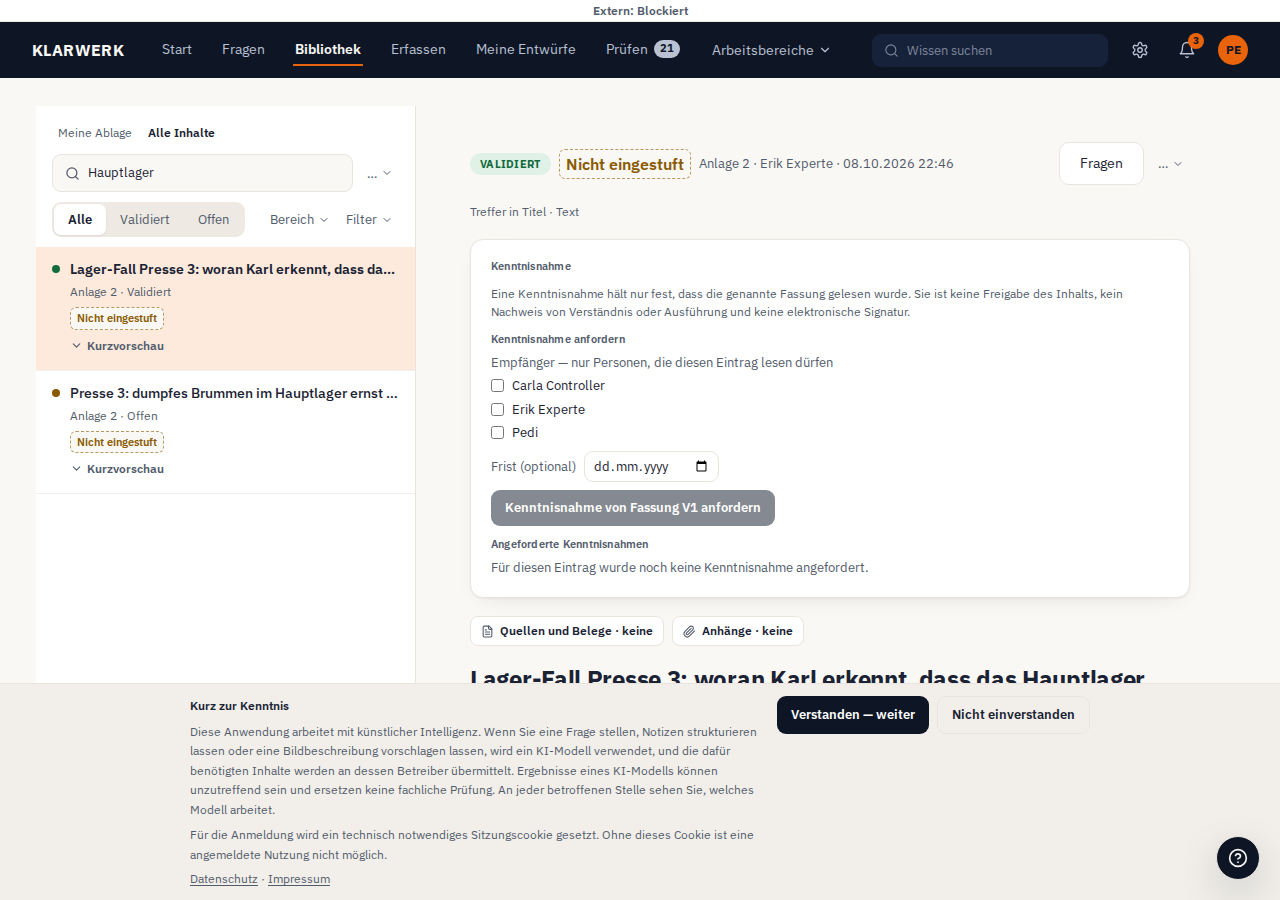
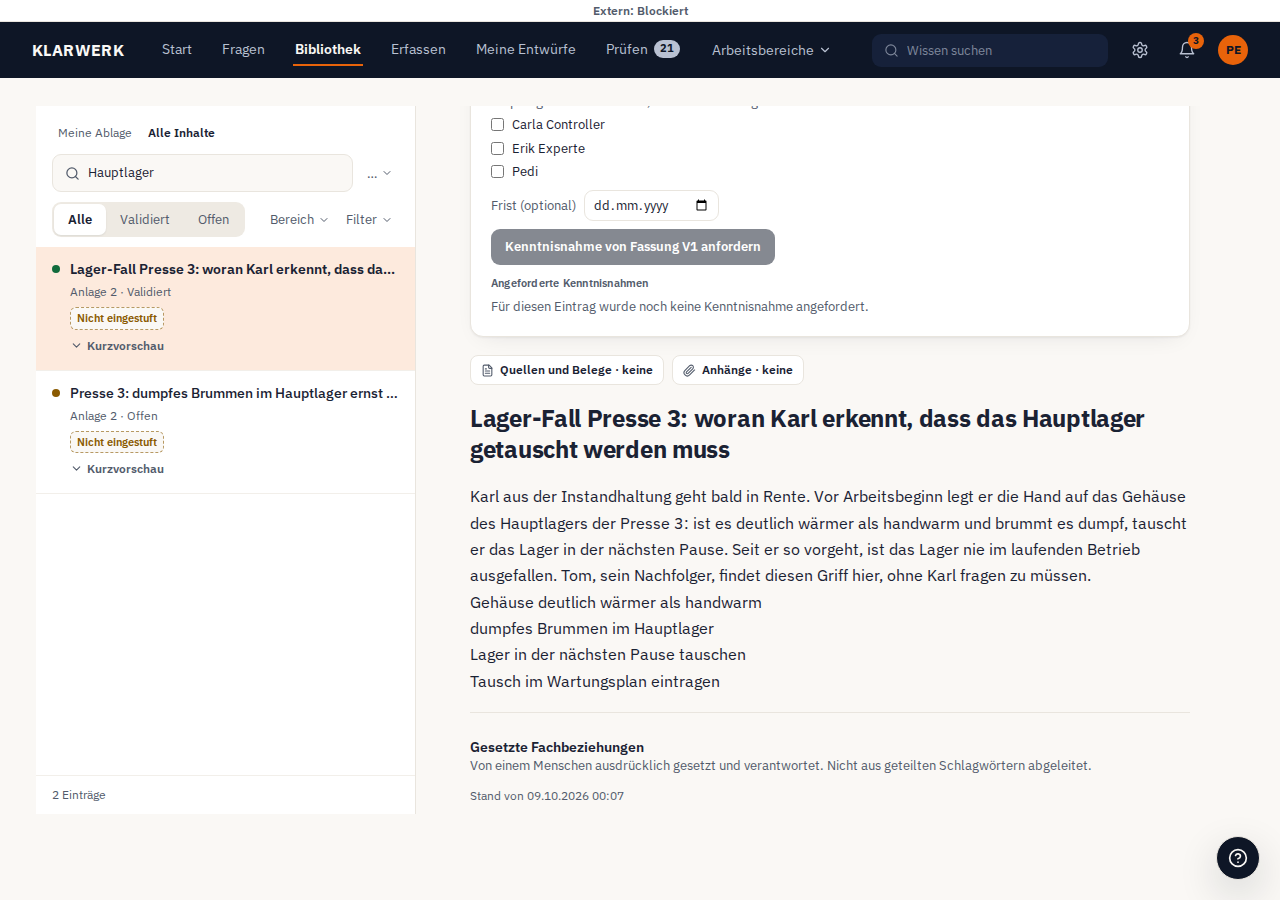
Geführten Erklär- und Vorführmodus anbieten (1.0.0-beta.1.786)
auftrag-703b41de15245d33aab2:kandidat:0f9590dee87762d829fd7c0aaac6bd933aef50b7:g14

Changed region(s): [[0.125, 0.1244, 0.9375, 0.9956], [0.0312, 0.8711, 0.0938, 0.9022], [0.8438, 0.1556, 0.875, 0.1867]]

diff --git a/tests/vorfuehrweg/ansichten-auslieferung.test.ts b/tests/vorfuehrweg/ansichten-auslieferung.test.ts
@@ -23,7 +23,7 @@ const SEITE = join(OEFFENTLICH, "demonstration", "vorfuehrweg.html");
 const ORDNER = join(OEFFENTLICH, "demonstration", "vorfuehrweg-ansichten");
 const PRAEFIX = "/demonstration/vorfuehrweg-ansichten/";
 
-/** Die gesicherten Aufnahmen (Kandidat 775fd23c, Gruppe `vorfuehrweg-ansichten`). */
+/** Die gesicherten Aufnahmen (Gruppe `vorfuehrweg-ansichten`; Herkunft je Datei im Beleg). */
 const AUFNAHMEN: Record<string, { bytes: number; sha256: string }> = {
   "bibliothek-en.png": {
     bytes: 110789,
@@ -73,21 +73,23 @@ const AUFNAHMEN: Record<string, { bytes: number; sha256: string }> = {
     bytes: 98397,
[1 lines of base64/hex data omitted]
   },
+  // Neu aufgenommen an Kandidat 0f9590de (Nutzungshinweis bestätigt, Karls Erfahrung bzw. der
+  // geöffnete Fassungsverlauf V1/V2/V3 vollständig im Bild); die übrigen 16 stammen aus 775fd23c.
   "lagerfall-en.png": {
-    bytes: 113326,
[1 lines of base64/hex data omitted]
+    bytes: 107606,
[1 lines of base64/hex data omitted]
   },
   "lagerfall.png": {
-    bytes: 110236,
[1 lines of base64/hex data omitted]
+    bytes: 103786,
[1 lines of base64/hex data omitted]
   },
   "schweissnaht-en.png": {
-    bytes: 111699,
[1 lines of base64/hex data omitted]
+    bytes: 94812,
[1 lines of base64/hex data omitted]
   },
   "schweissnaht.png": {
-    bytes: 116168,
[1 lines of base64/hex data omitted]
+    bytes: 99946,
[1 lines of base64/hex data omitted]
   },
   "start-en.png": {
     bytes: 81623,

diff --git a/docs/belege/vorfuehrweg-ansichten.md b/docs/belege/vorfuehrweg-ansichten.md
@@ -6,19 +6,26 @@ Die 20 Bilder unter `apps/web/public/demonstration/vorfuehrweg-ansichten/` sind 
 die der Vorführweg (`apps/web/public/demonstration/vorfuehrweg.html`) je Station verlinkt: Deutsch
 `<station>.png`, Englisch `<station>-en.png`.
 
-**Herkunft:** aufgenommen von `tests/vorfuehrweg/ansichten-chromium.test.ts` an der gebauten Fassung
-von Kandidat `775fd23c497eef62d535da1ee82565944860c1a9` (Prüfauftrag
-`auftrag-703b41de15245d33aab2-775fd23c497e`), in echtem Chromium, mit über `POST /api/admin/demo-seed`
-geladenen Demodaten in der jeweiligen Sprache. Jede Aufnahme entstand erst, nachdem das Demo-Ergebnis
-der Station sichtbar war. Gesichert als Prüfartefakte (Gruppe `vorfuehrweg-ansichten`,
-`BILDBELEGE.json`) und unverändert unter ihrem Ursprungsnamen übernommen.
+**Herkunft:** aufgenommen von `tests/vorfuehrweg/ansichten-chromium.test.ts` an der gebauten Fassung,
+in echtem Chromium, mit über `POST /api/admin/demo-seed` geladenen Demodaten in der jeweiligen Sprache.
+Gesichert als Prüfartefakte (Gruppe `vorfuehrweg-ansichten`, `BILDBELEGE.json`) und unverändert unter
+ihrem Ursprungsnamen übernommen. Zwei Aufnahmeläufe:
+
+- **16 Bilder** aus Kandidat `775fd23c497eef62d535da1ee82565944860c1a9` (Prüfauftrag
+  `auftrag-703b41de15245d33aab2-775fd23c497e`). Damals verlangte die Aufnahme den Nachweistext nur im
+  Dokument; einige dieser Bilder zeigen unten noch den Nutzungshinweis.
+- **lagerfall, lagerfall-en, schweissnaht, schweissnaht-en** aus Kandidat
+  `0f9590dee87762d829fd7c0aaac6bd933aef50b7` (Prüfauftrag `auftrag-703b41de15245d33aab2-0f9590dee877`,
+  bildbeleg-012 bis -015). Der Nutzungshinweis ist regulär bestätigt; die Aufnahme verlangte, dass
+  Karls Erfahrung bzw. die Titel der Fassungen V1, V2 und V3 vollständig und unverdeckt im Bild stehen.
 
 **Abgleich:** `tests/vorfuehrweg/ansichten-auslieferung.test.ts` verlangt je Datei genau die
 unten stehende Größe und SHA-256 und ruft jede verlinkte Datei über den echten statischen
 Auslieferungsweg ab.
 
 **Grenzen:** Die Bilder zeigen den Stand ihrer Aufnahmefassung. Ohne freigeschaltetes Modell zeigt
-`fragen` die vorbefüllte, gesperrte Frage; `lagerfall` zeigt Karls Eintrag in der Bibliothek.
+`fragen` die vorbefüllte, gesperrte Frage; `lagerfall` zeigt Karls Eintrag in der Bibliothek;
+`schweissnaht` zeigt den geöffneten Fassungsverlauf unter „Mehr“.
 
 | Datei | Bytes | SHA-256 |
 |---|---:|---|
@@ -34,10 +41,10 @@ Auslieferungsweg ab.
 | importwege.png | 87908 | 5f95a7933ec2857aab5552ee09396f227570832d1e797a4e1b04b54f2a3d663f |
 | konflikte-en.png | 95039 | b9abf0f551962054c718eaa85449b66d8856d7f6fd8c3df53f7e48cc3295e6ff |
 | konflikte.png | 98397 | 35c93d4d75123be9a40820dcdf8568175c4331dce8e2b9e13eb349cbf3cefff2 |
-| lagerfall-en.png | 113326 | da22911c24f8fe1a76a6c815be52d6bf98694608a9e4e1ff7815e36e812f63e7 |
-| lagerfall.png | 110236 | d48cafaa5b855950290848e853841d90ebe233f3f4bd9a4c85f378787ea1f113 |
-| schweissnaht-en.png | 111699 | a94408c235be2566ff43915543d505db9d3b9151101c5030dcaf5beddcde7ac4 |
-| schweissnaht.png | 116168 | f3c9ec34ec31b9cffe8622109f5a26a2f1efb3ee753aa01b2a236479f33405d8 |
+| lagerfall-en.png | 107606 | 6a662afbca3a26fcc0cab22af28ff13290cfa81d2b26f25fcb24dbd92b966563 |
+| lagerfall.png | 103786 | aa1baaacb2f05e420f405363a083bfd0d5889879677a1d10b05b4a59433f1955 |
+| schweissnaht-en.png | 94812 | dd12e7df577d93ca2f78c4f366c1c9fc3776c762123a603b58ce7798141e5835 |
+| schweissnaht.png | 99946 | f4a214d6e0f945256502613aab061b30b6ed3899639f6fc563815e274e9ef9fd |
 | start-en.png | 81623 | 0e9c26d36fad864d8f56700bbabe907449684cce98afc34470b5e7aa29badb46 |
 | start.png | 82000 | df8c9ccddb11ccc10ff20ec66edfba8d09c08df78c668f5a78a4c755bc2285cd |
 | validierung-en.png | 107906 | 353166a17defe2f298c4c32bcb7cdcb96217eb1f178ff1fe9b3de963551e5246 |
